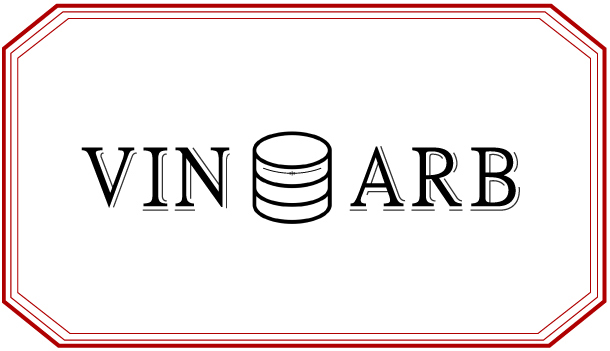
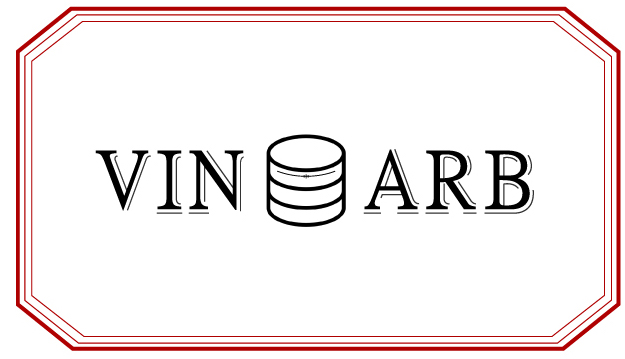
Deployment Ready?

Changed region(s): [[0.0, 0.0, 0.9967, 0.9972], [0.1246, 0.3704, 0.8721, 0.6553]]

diff --git a/winearb/templates/pages/about.html b/winearb/templates/pages/about.html
@@ -1,1 +1,83 @@
-{% extends "base.html" %}
+{% load static i18n %}
+<!DOCTYPE html>
+<html lang="en">
+  <head>
+    <meta charset="utf-8">
+    <meta http-equiv="x-ua-compatible" content="ie=edge">
+    <title>{% block title %}WineArb{% endblock title %}</title>
+    <meta name="viewport" content="width=device-width, initial-scale=1.0">
+    <meta name="description" content="">
+    <meta name="author" content="">
+
+    <!-- HTML5 shim, for IE6-8 support of HTML5 elements -->
+    <!--[if lt IE 9]>
+      <script src="https://html5shim.googlecode.com/svn/trunk/html5.js"></script>
+    <![endif]-->
+
+    {% block css %}
+    <!-- Latest compiled and minified Bootstrap 4 Alpha 4 CSS -->
+    <link rel="stylesheet" href="https://maxcdn.bootstrapcdn.com/bootstrap/4.0.0-alpha.4/css/bootstrap.min.css" integrity="sha384-2hfp1SzUoho7/TsGGGDaFdsuuDL0LX2hnUp6VkX3CUQ2K4K+xjboZdsXyp4oUHZj" crossorigin="anonymous">
+
+    <!-- Your stuff: Third-party CSS libraries go here -->
+
+    <!-- This file stores project-specific CSS -->
+    <link href="{% static 'css/project.css' %}" rel="stylesheet">
+    <link href="https://fonts.googleapis.com/css?family=Cinzel:400,700" rel="stylesheet">
+
+    {% endblock %}
+
+  </head>
+
+  <body>
+
+
+    <div class="container">
+
+      {% if messages %}
+          {% for message in messages %}
+              <div class="alert {% if message.tags %}alert-{{ message.tags }}{% endif %}">{{ message }}</div>
+          {% endfor %}
+      {% endif %}
+
+      {% block content %}
+      <h1 class="text-xs-center"> About VinArb </h1>
+
+      <p class="text-justify">It is important to record our thoughts on wine.<br><br>
+
+
+      Here, you will find a minimally intrusive platform to record your notes on the wines that you drink:
+      A database in the cloud.<br><br>
+
+      Simply take a picture, rate, comment, and save. Finish enjoying your wine, and when you come back, you'll find your
+      review paired with a wine in the database. </p><br>
+
+      <p>Just tap the VinArb logo to add a note!</p><br>
+
+      <h4 class="text-xs-right">-Bobby B.</h4>
+      <p class="text-xs-right"><i>Developer</i></a></p>
+      <p class="text-xs-left"><a href="{% url 'homepage' %}">Back to Home</a></p>
+      {% endblock content %}
+
+    </div> <!-- /container -->
+
+    {% block modal %}{% endblock modal %}
+
+    <!-- Le javascript
+    ================================================== -->
+    <!-- Placed at the end of the document so the pages load faster -->
+    {% block javascript %}
+      <!-- Required by Bootstrap v4 Alpha 4 -->
+      <script src="https://ajax.googleapis.com/ajax/libs/jquery/3.1.1/jquery.min.js" integrity="sha384-3ceskX3iaEnIogmQchP8opvBy3Mi7Ce34nWjpBIwVTHfGYWQS9jwHDVRnpKKHJg7" crossorigin="anonymous"></script>
+      <script src="https://cdnjs.cloudflare.com/ajax/libs/tether/1.3.7/js/tether.min.js" integrity="sha384-XTs3FgkjiBgo8qjEjBk0tGmf3wPrWtA6coPfQDfFEY8AnYJwjalXCiosYRBIBZX8" crossorigin="anonymous"></script>
+      <script src="https://maxcdn.bootstrapcdn.com/bootstrap/4.0.0-alpha.4/js/bootstrap.min.js" integrity="sha384-VjEeINv9OSwtWFLAtmc4JCtEJXXBub00gtSnszmspDLCtC0I4z4nqz7rEFbIZLLU" crossorigin="anonymous"></script>
+
+      <!-- Your stuff: Third-party javascript libraries go here -->
+
+      <!-- place project specific Javascript in this file -->
+
+      <script src="{% static 'js/project.js' %}"></script>
+
+
+    {% endblock javascript %}
+  </body>
+</html>

diff --git a/winearb/templates/base.html b/winearb/templates/base.html
@@ -20,8 +20,10 @@
 
     <!-- Your stuff: Third-party CSS libraries go here -->
 
+
     <!-- This file stores project-specific CSS -->
     <link href="{% static 'css/project.css' %}" rel="stylesheet">
+    <link href="https://fonts.googleapis.com/css?family=Cinzel:400,700" rel="stylesheet">
 
     {% endblock %}
 
@@ -30,12 +32,12 @@
   <body>
 
     <div class="m-y-1 text-xs-center">
-      <div class="container text-xs-center">
-        <nav class="navbar navbar-light navbar-static-top text-xs-center" style="background-color: rgba(255,255, 255, 0.7);">
-          <div class="container-fluid text-xs-center">
-            <div class="container-fluid text-xs-center m-x-auto">
-              <a class="navbar-brand m-l-2 text-xs-center" href="{% url 'reviews:home' %}">
-                <img src="{{ STATIC_URL }}images/VIN-ARB.jpg" class="img-fluid" alt="VinArb">
+      <div class="container m-x-auto">
+        <nav class="navbar navbar-light m-x-auto" style="background-color: rgba(255,255, 255, 0.7);">
+          <div class="container-fluid m-x-auto">
+            <div class="container m-x-auto">
+              <a class="navbar-brand" href="{% url 'reviews:home' %}">
+                <img src="{{ STATIC_URL }}images/VIN-ARB.jpg" class="img-fluid m-x-auto" alt="VinArb">
               </a>
             </div>
             <button type="button" class="navbar-toggler hidden-sm-up text-xs-center"  data-toggle="collapse" data-target="#bs-navbar-collapse-1">
@@ -43,8 +45,8 @@
             </button>
 
             <!-- Collect the nav links, forms, and other content for toggling  -->
-            <div class="collapse navbar-toggleable-xs text-xs-center" id="bs-navbar-collapse-1">
-              <ul class="nav navbar-nav">
+            <div class="collapse navbar-toggleable-xs m-x-auto" id="bs-navbar-collapse-1">
+              <ul class="nav navbar-nav m-x-auto">
                 <!--
                 <li class="nav-item">
                   <a class="nav-link" href="{% url 'reviews:wine_list' %}">All Wines</a>
@@ -54,7 +56,7 @@
 
               </ul>
 
-              <ul class="nav navbar-nav text-xs-center">
+              <ul class="nav navbar-nav m-x-auto">
                 {% if request.user.is_authenticated %}
                   <li class="nav-item">
                     <a class="nav-link" href="{% url 'users:detail' request.user.username  %}">Welcome, {{ request.user.name }}</a>

diff --git a/winearb/reviews/templates/reviews/review_list.html b/winearb/reviews/templates/reviews/review_list.html
@@ -17,7 +17,7 @@
   <div class="form-horizontal">
     <form action="" method="get">
             {{ filter.form|crispy }}
-            <button type="submit" class="btn btn-danger btn-block">Filter
+            <button type="submit" class="btn btn-outline-danger btn-block">Filter
     </form>
   </div>
 </div>
@@ -31,8 +31,8 @@
         </div>
         <div class="col-xs-8 text-xs-center">
             {% if review.wine.producer != review.wine.name %}
-                <h5>{{ review.wine.producer}}</h5><br>
-                <a href="{% url 'reviews:wine_detail' review.id %}"><h6>{{review.wine.vintage }} {{ review.wine.name }}</h6></a>
+                <a href="{% url 'reviews:wine_detail' review.id %}"><h5>{{review.wine.vintage }} {{ review.wine.producer}}</h5></a><br>
+                <h6>{{ review.wine.name }}</h6>
             {% else %}
                 <a href="{% url 'reviews:wine_detail' review.id %}"><h5>{{review.wine.vintage }} {{ review.wine.producer}}</h5></a>
             {% endif %}
@@ -42,7 +42,7 @@
           {% if review.rating >= 15 %}
             <h6 class="text-success">{{ review.rating }}/20</h6>
           {% elif review.rating <= 5 %}
-            <h6 class="text-danger">{{ review.rating }}/20</h6>
+            <h6 class="text-muted">{{ review.rating }}/20</h6>
           {% else %}
             <h6>{{ review.rating }}/20</h6>
           {% endif %}

diff --git a/winearb/templates/account/email.html b/winearb/templates/account/email.html
@@ -34,9 +34,9 @@
   {% endfor %}
 
 <div class="form-group">
-      <button class="secondaryAction btn btn-primary" type="submit" name="action_primary" >{% trans 'Make Primary' %}</button>
-      <button class="secondaryAction btn btn-primary" type="submit" name="action_send" >{% trans 'Re-send Verification' %}</button>
-      <button class="primaryAction btn btn-primary" type="submit" name="action_remove" >{% trans 'Remove' %}</button>
+      <button class="secondaryAction btn btn-outline-danger" type="submit" name="action_primary" >{% trans 'Make Primary' %}</button>
+      <button class="secondaryAction btn btn-outline-danger" type="submit" name="action_send" >{% trans 'Re-send Verification' %}</button>
+      <button class="primaryAction btn btn-outline-danger" type="submit" name="action_remove" >{% trans 'Remove' %}</button>
 </div>
 
 </fieldset>
@@ -53,7 +53,7 @@
     <form method="post" action="{% url 'account_email' %}" class="add_email">
         {% csrf_token %}
         {{ form|crispy }}
-        <button class="btn btn-primary" name="action_add" type="submit">{% trans "Add E-mail" %}</button>
+        <button class="btn btn-outline-danger" name="action_add" type="submit">{% trans "Add E-mail" %}</button>
     </form>
 
 {% endblock %}

diff --git a/winearb/reviews/templates/reviews/edit_review.html b/winearb/reviews/templates/reviews/edit_review.html
@@ -1,17 +1,18 @@
 {% extends 'base.html' %}
-{% load bootstrap3 %}
+{% load static i18n %}
+{% load crispy_forms_tags %}
 
 {% block content %}
-{{ associated_image }}
-<img src="{{ MEDIA_URL }}{{ image }}" class="img-fluid" alt="Responsive image"/>
-<form action="{% url 'reviews:edit_review' review.id %}" method="post" class="form" enctype="multipart/form-data">
-    {% csrf_token %}
-    {{image_form.as_p}}
-    {{form.as_p}}
-    {% buttons %}
-    <button type="submit" class="btn btn-danger btn-block" value="Upload">
-        {% bootstrap_icon "star" %} Add
-    </button>
-    {% endbuttons %}
-</form>
+
+<div class="container-fluid m-b-1">
+  <img src="{{ MEDIA_URL }}{{ image }}" class="img-fluid" alt="Responsive image">
+  <div class="form-horizontal">
+    <form action="{% url 'reviews:edit_review' review.id %}" method="post" class="form" enctype="multipart/form-data">
+        {% csrf_token %}
+        {{form|crispy}}
+        <button type="submit" class="btn btn-outline-danger btn-block" value="Upload">Save
+        </button>
+    </form>
+  </div>
+</div>
 {% endblock %}

diff --git a/winearb/reviews/templates/reviews/wine_detail.html b/winearb/reviews/templates/reviews/wine_detail.html
@@ -14,9 +14,17 @@
       <p class="card-text text-xs-center">{{review.comment}}</p>
     </div>
       <ul class="list-group list-group-flush">
-      <li class="list-group-item"><a href="{% url 'reviews:edit_review' review.id%}">Edit</a></li>
-      <li class="list-group-item"><a href="{% url 'reviews:delete_review' review.id%}">Delete</a></li>
+      {% if not wine.secondary_variety%}
+        <li class="list-group-item">{{ wine.dominant_variety}}</li>
+      {% else %}
+        <li class="list-group-item">{{ wine.dominant_variety}}&nbsp;and&nbsp;{{ wine.secondary_variety}}</li>
+      {% endif %}
+      <li class="list-group-item">{{ wine.region }},&nbsp;{{ wine.country}}</li>
     </ul>
+    <div class="card-block">
+      <a href="{% url 'reviews:edit_review_form' review.id%}" class="card-link">Edit</a>&nbsp;or&nbsp;
+      <a href="{% url 'reviews:delete_review' review.id%}">Delete</a>
+    </div>
   </div>
 </div>
 

diff --git a/winearb/static/css/project.css b/winearb/static/css/project.css
@@ -33,7 +33,33 @@
     display: none;
 }
 
+@media (min-width: 768px){
+  .navbar-nav{
+      margin: 0 auto;
+      float: none;
+      display: table;
+  }
+}
 
+.navbar-brand {
+    float:none;
+}
+
+.navbar-header {
+    text-align:center;
+    line-height:50px;
+}
+
+body {
+  font-family: 'Cinzel', sans-serif;
+  font-weight: 400; // Corresponds to the Bold 400 style
+}
+
+h1, h2, h3,
+.h1, .h2, .h3{
+  font-family: 'Cinzel', sans-serif;
+  font-weight: 700;
+}
 /* Display django-debug-toolbar.
    See https://github.com/django-debug-toolbar/django-debug-toolbar/issues/742
    and https://github.com/pydanny/cookiecutter-django/issues/317

diff --git a/winearb/templates/account/login.html b/winearb/templates/account/login.html
@@ -41,7 +41,7 @@ for a {{ site_name }} account and sign in below:{% endblocktrans %}</p>
   <input type="hidden" name="{{ redirect_field_name }}" value="{{ redirect_field_value }}" />
   {% endif %}
   <a class="button secondaryAction" href="{% url 'account_reset_password' %}">{% trans "Forgot Password?" %}</a>
-  <button class="primaryAction btn btn-primary" type="submit">{% trans "Sign In" %}</button>
+  <button class="primaryAction btn btn-outline-danger" type="submit">{% trans "Sign In" %}</button>
 </form>
 
 {% endblock %}

diff --git a/winearb/templates/users/user_detail.html b/winearb/templates/users/user_detail.html
@@ -21,8 +21,8 @@
 <div class="row">
 
   <div class="col-sm-12">
-    <a class="btn btn-primary" href="{% url 'users:update' %}" role="button">My Info</a>
-    <a class="btn btn-primary" href="{% url 'account_email' %}" role="button">E-Mail</a>
+    <a class="btn btn-outline-danger" href="{% url 'users:update' %}" role="button">My Info</a>
+    <a class="btn btn-outline-danger" href="{% url 'account_email' %}" role="button">E-Mail</a>
     <!-- Your Stuff: Custom user template urls -->
   </div>
 

diff --git a/winearb/templates/account/signup.html b/winearb/templates/account/signup.html
@@ -16,7 +16,7 @@
   {% if redirect_field_value %}
   <input type="hidden" name="{{ redirect_field_name }}" value="{{ redirect_field_value }}" />
   {% endif %}
-  <button class="btn btn-primary" type="submit">{% trans "Sign Up" %} &raquo;</button>
+  <button class="btn btn-outline-danger" type="submit">{% trans "Sign Up" %} &raquo;</button>
 </form>
 
 {% endblock %}

diff --git a/winearb/reviews/templates/reviews/home.html b/winearb/reviews/templates/reviews/home.html
@@ -9,7 +9,7 @@
         {% csrf_token %}
         {{image_form|crispy}}
         {{form|crispy}}
-        <button type="submit" class="btn btn-danger btn-block" value="Upload">Save
+        <button type="submit" class="btn btn-outline-danger btn-block" value="Upload">Save
         </button>
     </form>
   </div>

diff --git a/winearb/templates/account/email_confirm.html b/winearb/templates/account/email_confirm.html
@@ -17,7 +17,7 @@
 
 <form method="post" action="{% url 'account_confirm_email' confirmation.key %}">
 {% csrf_token %}
-    <button class="btn btn-primary" type="submit">{% trans 'Confirm' %}</button>
+    <button class="btn btn-outline-danger" type="submit">{% trans 'Confirm' %}</button>
 </form>
 
 {% else %}
